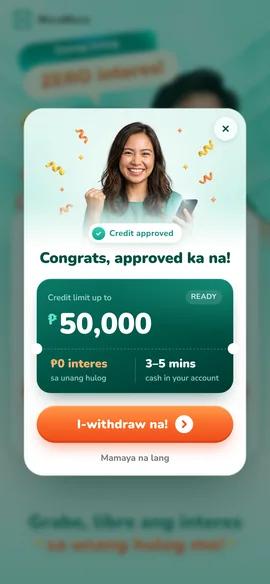
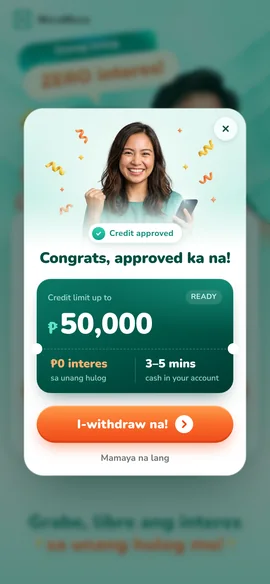
Landing page: align the ₱ sign to the bottom of the limit amount
Claude-Session: https://claude.ai/code/session_01G7wgNY2VUvWnqeckSU96GE

Changed region(s): [[0.1778, 0.524, 0.563, 0.5856]]

diff --git a/prototypes/landing-page/index.html b/prototypes/landing-page/index.html
@@ -246,7 +246,7 @@ footer .copy{margin-top:10px;font-size:11px;color:rgba(255,255,255,.4)}
 .approve .ticket .lab{display:flex;align-items:center;justify-content:space-between;font:600 12px/1 var(--font-body);color:rgba(200,243,234,.82)}
 .approve .ticket .lab span:last-child{font:700 10.5px/1 var(--font-body);letter-spacing:.4px;text-transform:uppercase;padding:5px 8px;border-radius:999px;background:rgba(255,255,255,.12);color:#C8F3EA}
 .approve .amt{margin-top:8px;font:900 42px/1 var(--font-display);letter-spacing:-.6px;font-variant-numeric:tabular-nums;white-space:nowrap}
-.approve .amt small{font-size:22px;vertical-align:13px;margin-right:3px;color:#5FE3C7;letter-spacing:0}
+.approve .amt small{font-size:24px;vertical-align:baseline;margin-right:3px;color:#5FE3C7;letter-spacing:0}
 .approve .amt.done{animation:ready .5s var(--spring)}
 .approve .tear{position:relative;margin:14px -16px 12px;border-top:1.5px dashed rgba(200,243,234,.28)}
 .approve .tear::before,.approve .tear::after{content:"";position:absolute;top:-9px;width:16px;height:16px;border-radius:50%;background:#fff}

diff --git a/index.html b/index.html
@@ -18,8 +18,8 @@
 <script src="vendor/react-dom@18.3.1/react-dom.production.min.js"></script>
 <script src="vendor/motion@14.4.0/motion-react.js"></script>
 <script src="vendor/mui-material@5.18.0/material-ui.production.min.js"></script>
-<script src="assets/playground-ui.js?v=202610260938"></script>
-<script src="animations/animations.js?v=202610260938"></script>
+<script src="assets/playground-ui.js?v=202610260943"></script>
+<script src="animations/animations.js?v=202610260943"></script>
 <script>
 /* ---- Prototype registry (the "Prototypes" tab) -----------------------------------------
    To add a prototype: put its files in prototypes/<slug>/ and add one entry below.

diff --git a/animations/player.html b/animations/player.html
@@ -23,8 +23,8 @@
 <script src="../vendor/motion@14.4.0/motion-react.js"></script>
 <script src="../vendor/mui-material@5.18.0/material-ui.production.min.js"></script>
 <script src="../vendor/lottie-web@5.12.2/lottie_svg.min.js"></script>
-<script src="../assets/playground-ui.js?v=202610260938"></script>
-<script src="animations.js?v=202610260938"></script>
+<script src="../assets/playground-ui.js?v=202610260943"></script>
+<script src="animations.js?v=202610260943"></script>
 <script>
 /* ---- Animation player ------------------------------------------------------------------
    One animation at a time. Each animation exists twice, pixel-matched: the Lottie JSON played
